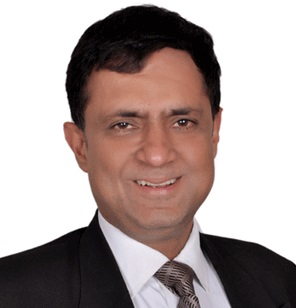
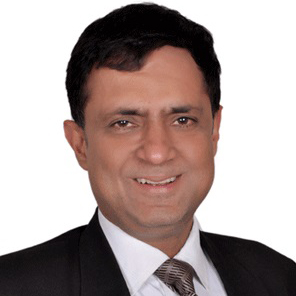
fix images on homepage
border radius issue

diff --git a/trash/c contact-us-light.html b/trash/c contact-us-light.html
@@ -1,0 +1,284 @@
+<!DOCTYPE html>
+<html lang="en">
+<head>
+    <!--Meta tags-->
+    <meta charset="utf-8">
+    <meta http-equiv="X-UA-Compatible" content="IE=edge">
+    <meta name="viewport" content="width=device-width, initial-scale=1">
+
+    <!-- Change Title and Meta tags-->
+    <title>Eclipse Ico | HTML Template | Home</title>
+    <meta name="description"
+          content="Eclipse Ico | responsive app landing page, This is a premium product available exclusively here : https://themeforest.net/user/perletheme">
+    <meta name="robots" content="index, follow">
+    <meta name="author" content="Perle Template">
+
+    <!-- Favicon -->
+    <link rel="icon" href="./images/icons/earth-ball@2x.png">
+
+    <!--Css Libraries-->
+    <link rel="stylesheet" href="./css/plugins.css">
+
+    <!-- Our Min CSS -->
+    <link rel="stylesheet" href="./css/styles-2-light.css">
+
+    <!-- HTML5 shim and Respond.js for IE8 support of HTML5 elements and media queries -->
+    <!-- WARNING: Respond.js doesn't work if you view the page via file:// -->
+    <!--[if lt IE 9]>
+    <script src="https://oss.maxcdn.com/html5shiv/3.7.3/html5shiv.min.js" type="text/javascript"></script>
+    <script src="https://oss.maxcdn.com/respond/1.4.2/respond.min.js" type="text/javascript"></script>
+    <![endif]-->
+
+</head>
+<body class="light-style">
+
+<div class="page container other-pages">
+
+    <!--div to scroll to top-->
+    <div class="top-div" data-scroll-index="0"></div>
+
+    <!-- Start Nav Section-->
+    <div class="nav-container">
+        <nav class="navbar navbar-expand-lg main-navbar navbar-light">
+            <div class="container blue-light-background">
+                <!--Nav Logo on small screens Only-->
+                <div class="small-screens-logo nav-logo d-block d-sm-block d-lg-none">
+                    <a class="navbar-brand" data-scroll-nav="1" href="#">
+                        <img class="img-fluid" src="./images/svg/site-logo.svg" alt="Website Logo">
+                    </a>
+                </div>
+                <div class="navbar-toggler" data-toggle="collapse" data-target="#navbarSupportedContent"
+                     aria-controls="navbarSupportedContent" aria-label="navbarSupportedContent">
+                    <a class="very_small_hamburger" id="hamburger-menu">
+                        <svg viewBox="0 0 800 600">
+                            <path d="M300,220 C300,220 520,220 540,220 C740,220 640,540 520,420 C440,340 300,200 300,200"
+                                  class="top"></path>
+                            <path d="M300,320 L540,320" class="middle"></path>
+                            <path d="M300,210 C300,210 520,210 540,210 C740,210 640,530 520,410 C440,330 300,190 300,190"
+                                  class="bottom"
+                                  transform="translate(480, 320) scale(1, -1) translate(-480, -318) "></path>
+                        </svg>
+                    </a>
+                </div>
+                <div class="collapse navbar-collapse" id="navbarSupportedContent">
+                    <!--Nav Logo on small screens Only-->
+                    <div class="small-screens-logo nav-logo d-block d-sm-block d-lg-none">
+                        <a class="navbar-brand" data-scroll-nav="1" href="#">
+                            <img class="img-fluid" src="./images/svg/site-logo.svg" alt="Website Logo">
+                        </a>
+                    </div>
+                    <ul class="navbar-nav mr-auto">
+                        <li class="nav-item nav-link-scroll waves-effect">
+                            <a class="nav-link" href="./index-style-2-dark.html">Home</a>
+                        </li>
+                        <li class="nav-item nav-link-scroll waves-effect">
+                            <a class="nav-link" href="./index-style-2-dark.html">About</a>
+                        </li>
+                        <li class="nav-item nav-link-scroll waves-effect">
+                            <a class="nav-link" href="./index-style-2-dark.html">Projects</a>
+                        </li>
+                        <li class="nav-item dropdown">
+                            <a class="nav-link dropdown-toggle waves-effect" href="#" id="blogDropdown" role="button"
+                               data-toggle="dropdown" aria-haspopup="true" aria-expanded="false">
+                                Blog
+                            </a>
+                            <div class="dropdown-menu" aria-labelledby="blogDropdown">
+                                <a class="dropdown-item waves-effect" href="./index-style-2-dark.html">Blog Page</a>
+                                <a class="dropdown-item waves-effect" href="./index-style-2-dark.html">Another
+                                    action</a>
+                                <div class="dropdown-divider"></div>
+                                <a class="dropdown-item waves-effect" href="./index-style-2-dark.html">Something else
+                                    here</a>
+                            </div>
+                        </li>
+                    </ul>
+                    <!--Nav Logo on Big Screens Only-->
+                    <div class="nav-logo d-none d-lg-block">
+                        <a class="navbar-brand" data-scroll-nav="1" href="#">
+                            <img class="img-fluid" src="./images/svg/site-logo.svg" alt="Website Logo">
+                        </a>
+                    </div>
+                    <!--Subscribe Button-->
+                    <div class="nav-buttons">
+                        <button id="navbar-subscribe-btn" type="button" data-toggle="modal"
+                                data-target="#subscribe-modal"
+                                class="btn hoverable main-gradient-bg waves-effect waves-button nav-subscribe-btn">
+                            Subscribe
+                        </button>
+                        <div class="btn hoverable main-dark-background waves-effect waves-button nav-subscribe-btn">
+                            <a href="./sign-in.html">Sign In</a>
+                        </div>
+                        <div class="language-dropdown">
+                            <a class="dropdown-toggle waves-effect" href="#" id="languageDropdown" role="button"
+                               data-toggle="dropdown" aria-haspopup="true" aria-expanded="false">
+                                En
+                            </a>
+                            <div class="dropdown-menu" aria-labelledby="languageDropdown">
+                                <a class="dropdown-item nav-link-scroll waves-effect waves-light" data-scroll-nav="9"
+                                   href="#">Fr</a>
+                                <a class="dropdown-item waves-effect" href="#">Ru</a>
+                                <a class="dropdown-item waves-effect" href="#">Du</a>
+                            </div>
+                        </div>
+                    </div>
+                    <!-- Modal for Subscribe form-->
+                    <div class="modal fade" id="subscribe-modal" tabindex="-1" role="dialog"
+                         aria-labelledby="navbar-subscribe-btn" aria-hidden="true">
+                        <div class="modal-dialog modal-dialog-centered" role="document">
+                            <div class="modal-content">
+                                <div class="modal-header">
+                                    <h2>Subscribe Now</h2>
+                                    <button type="button" class="close" data-dismiss="modal" aria-label="Close">
+                                        <span aria-hidden="true">&times;</span>
+                                    </button>
+                                </div>
+                                <div class="modal-body">
+                                    <!--Alert message-->
+                                    <div class="col s12 alert-message p-t-2" id="form-output-global-nav"><p>&nbsp;</p>
+                                    </div>
+                                    <!-- Subscription Form CHANGE THE ACTION PROP IN THE FORM WITH YOUR MAILCHIMP URL - PLEASE FIND STEPS IN DOCUMENTATION-->
+                                    <form name="subscribe-form" class="subscribe-form form-group"
+                                          data-form-output="form-output-global-nav"
+                                          action="https://ezyro.us15.list-manage.com/subscribe/post?u=d70f2fe680c1d1ba5bef24ab7&amp;id=9ed360ebd1"
+                                          method="post">
+                                        <!-- Email Field -->
+                                        <input class="form-control" name="subscribe-email" type="email" required
+                                               autocomplete="email" placeholder="Your email">
+                                        <small class="form-text">We'll never share your email with anyone else. <i
+                                                class="fas fa-heart"></i></small>
+                                        <!-- Submit Button -->
+                                        <button type="submit"
+                                                class="subscribe-submit btn hoverable main-gradient-bg main-gradient-main-btn waves-effect waves-button">
+                                            <span class="btn-text">Subscribe</span>
+                                            <span class="first-span"><img src="./images/svg/Line%2011.svg"
+                                                                          alt=""></span>
+                                        </button>
+                                    </form>
+                                </div>
+                            </div>
+                        </div>
+                    </div>
+                </div>
+            </div>
+        </nav>
+    </div>
+    <!-- End Nav Section-->
+
+    <!-- Start Sign in Section-->
+    <div class="main-contact-faq main-section blue-light-background">
+        <div class="content">
+            <div class="sign-forms">
+                <div class="header-title" data-aos="fade-in" data-aos-delay="100">
+                    <h2>Contact Us<span class="text-reflection">contact us</span></h2>
+                </div>
+                <div class="contact-container">
+                    <div class="contact-sub-container">
+                        <div class="title main-gradient-bg">
+                            <h6>We would <i class="fas fa-heart"></i> to hear from you</h6>
+                        </div>
+                        <form class="contact-form main-dark-background" id="contact-form" name="contact-form"
+                              method="POST"
+                              data-name="Contact Form">
+                            <div>
+                                <label class="main-gradient-bg text-transparent" for="contact-name">your name *</label>
+                                <input class="blue-light-background" type="text" name="contact-name"
+                                       id="contact-name">
+                            </div>
+                            <div>
+                                <label class="main-gradient-bg text-transparent" for="contact-email">email address
+                                    *</label>
+                                <input class="blue-light-background" type="email" name="contact-email"
+                                       id="contact-email">
+                            </div>
+                            <div>
+                                <label class="main-gradient-bg text-transparent" for="contact-message">your message
+                                    *</label>
+                                <textarea class="blue-light-background" name="contact-message" id="contact-message"
+                                          cols="30" rows="10"></textarea>
+                            </div>
+                            <div id="contact-alert-message" class="align-content-center">
+                                <small>Please fill all the details</small>
+                            </div>
+                            <button id="contact-submit" class="main-gradient-bg contact-submit-btn" type="submit">
+                                Send
+                            </button>
+                            <!-- ! Anti-spam field ! Invisible for users, it will trick most bots to fill it and prevent the email from being sent to you -->
+                            <div class="d-none">
+                                <input type="text" id="contact-check-spam" placeholder="Leave field empty"
+                                       name="check-spam">
+                            </div>
+                        </form>
+                    </div>
+                </div>
+            </div>
+            <div class="subscribe-container">
+                <!--Alert message-->
+                <div class="col s12 alert-message p-t-2" id="subscribe-form"><p>&nbsp;</p></div>
+                <!-- Subscription Form CHANGE THE ACTION PROP IN THE FORM WITH YOUR MAILCHIMP URL - PLEASE FIND STEPS IN DOCUMENTATION-->
+                <form name="subscribe-form" class="subscribe-form main-gradient-bg" data-form-output="subscribe-form"
+                      action="https://ezyro.us15.list-manage.com/subscribe/post?u=d70f2fe680c1d1ba5bef24ab7&amp;id=9ed360ebd1"
+                      method="post">
+                    <!-- Email Field -->
+                    <input class="main-dark-background" name="subscribe-email" type="email" required
+                           autocomplete="email" placeholder="Your email">
+                    <!-- Submit Button -->
+                    <button type="submit" class="subscribe-submit btn">
+                        <span class="btn-text">Subscribe</span>
+                    </button>
+                </form>
+            </div>
+        </div>
+    </div>
+    <!-- End Sign in Section-->
+
+    <!-- Start Footer Section-->
+    <div class="main-footer">
+        <div class="content">
+            <img class="img-fluid" src="./images/icons/big-logo-light.png" alt="site-logo">
+            <p>
+                <a href="#"><i class="fas fa-rss"></i></a>
+                <a href="#"><i class="fab fa-twitter"></i></a>
+                <a href="#"><i class="fab fa-instagram"></i></a>
+                <a href="#"><i class="fab fa-facebook-f"></i></a>
+                <a href="#"><i class="fab fa-google-plus-g"></i></a>
+            </p>
+        </div>
+    </div>
+    <!-- End Footer Section-->
+
+    <!-- Start Copyright Section-->
+    <div class="main-copyright blue-light-background">
+        <p>Designed and coded with &nbsp;<i class="fas fa-heart"></i>&nbsp; by PerleTheme</p>
+        <div class="copyright-nav">
+            <a class="nav-link" data-scroll-nav="0" href="#">Home</a>
+            <a class="nav-link" data-scroll-nav="3" href="">About</a>
+            <a class="nav-link" data-scroll-nav="5" href="#">Projects</a>
+            <a class="nav-link" data-scroll-nav="8" href="#">News</a>
+        </div>
+    </div>
+    <!-- End Copyright Section-->
+
+    <!--Back to top button-->
+    <a href="#0" class="cd-top js-cd-top waves-effect waves-circle"><i class="fas fa-chevron-up"></i></a>
+
+    <span data-aos="zoom-out-left" data-aos-delay="100" class="shapes" style="background: url('./images/svg/circle.svg');"></span>
+    <span data-aos="zoom-out-right" data-aos-delay="100" class="shapes" style="background: url('./images/svg/circle.svg');"></span>
+    <span data-aos="zoom-out-left" data-aos-delay="100" class="shapes" style="background: url('./images/svg/circle.svg');"></span>
+    <span data-aos="zoom-out-right" data-aos-delay="100" class="shapes" style="background: url('./images/svg/circle.svg');"></span>
+    <span data-aos="fade-up" data-aos-delay="100" class="shapes" style="background: url('./images/svg/square.svg') no-repeat;"></span>
+    <span data-aos="fade-up" data-aos-delay="100" class="shapes" style="background: url('./images/svg/square.svg') no-repeat;"></span>
+    <span data-aos="fade-up" data-aos-delay="100" class="shapes" style="background: url('./images/svg/square.svg') no-repeat;"></span>
+    <span data-aos="fade-up" data-aos-delay="100" class="shapes" style="background: url('./images/svg/square.svg') no-repeat;"></span>
+
+</div>
+
+
+<!--All Javascript Plugins Used-->
+<script src="./js/plugins.js"></script>
+<!--Contact Form using Gmail Servers-->
+<script src="js/contact-form-gmail.js"></script>
+<!--Main Javascript file-->
+<script src="./js/main.js"></script>
+
+</body>
+</html>

diff --git a/index.html b/index.html
@@ -7,10 +7,10 @@
     <meta name="viewport" content="width=device-width, initial-scale=1">
 
     <!-- Change Title and Meta tags-->
-    <title>InvestoAsia | HTML Template | Home</title>
-    <meta name="description" content="InvestoAsia | responsive app landing page, This is a premium product available exclusively here : https://themeforest.net/user/perletheme">
-    <meta name="robots" content="index, follow">
-    <meta name="author" content="Perle Template">
+    <title>InvestoAsia | Home</title>
+    <meta name="description" content="InvestoAsia | responsive app landing page">
+    <meta name="InvestoAsia" content="index, follow">
+    <meta name="author" content="InvestoAsia">
 
     <!-- Favicon -->
     <link rel="icon" href="./images/icons/earth-ball@2x.png">
@@ -568,7 +568,7 @@
                                     Big Data Privacy Advisory Group. Also a recipient of ”Young
                                     Scientist Award” in 2011 and “CR Rao” award in 2015. He serves
                                     as a Board member at Reserve Bank of India Academy as well.</p>
-                            <img src="images/team/pulak_ghosh.jpg" alt="team image" >
+                            <img src="images/team/pulak_ghosh_final.jpg" alt="team image" >
                             <a href="#"><i class="fas fa-rss"></i></a>
                             <a href="#"><i class="fab fa-twitter"></i></a>
                             <a href="#"><i class="fab fa-instagram"></i></a>

diff --git a/css/styles-1-light.css b/css/styles-1-light.css
@@ -944,7 +944,7 @@ button:focus,
       position: relative;
       display: inline-block;
       margin-top: 1rem; }
-      .main-team .team-container-sub .job-title::before {
+      /* .main-team .team-container-sub .job-title::before {
         content: '';
         width: 90px;
         height: 7px;
@@ -953,7 +953,7 @@ button:focus,
         left: -110%;
         top: 50%;
         -webkit-transform: translate3d(0, -50%, 0);
-                transform: translate3d(0, -50%, 0); }
+                transform: translate3d(0, -50%, 0); } */
     .main-team .team-container-sub .description {
       font-size: 0.75rem;
       line-height: 1.5; }
